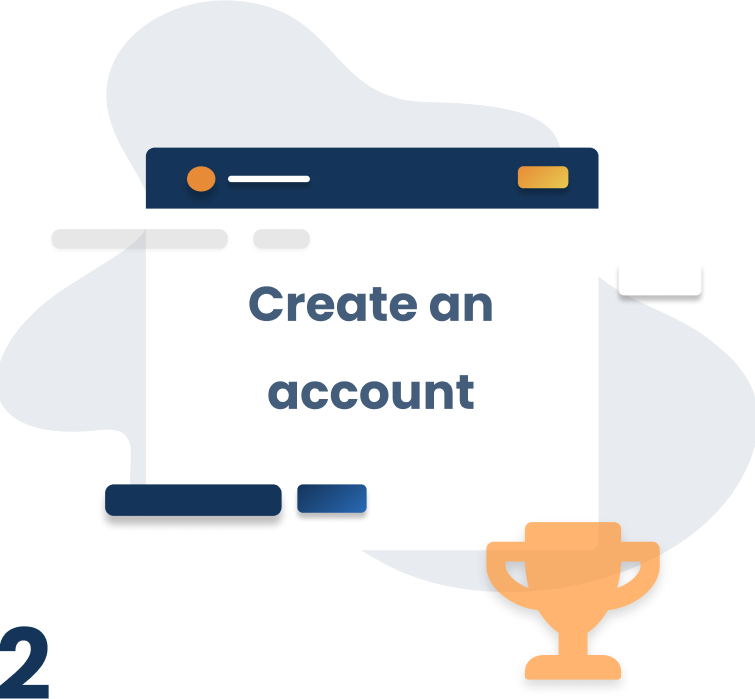
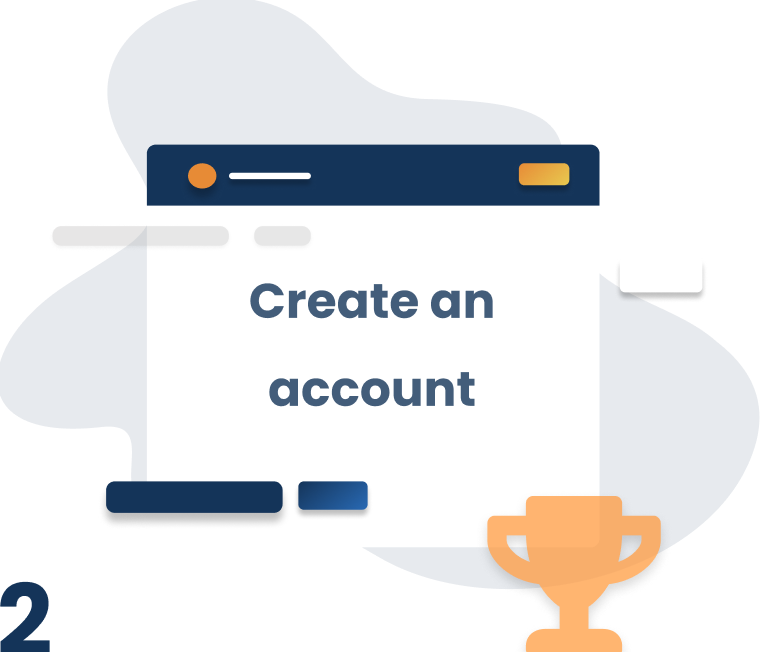
completed how it works bug fix

diff --git a/app/assets/stylesheets/pages/_how_it_works.scss b/app/assets/stylesheets/pages/_how_it_works.scss
@@ -1,10 +1,10 @@
 @media screen and (min-width: 642px) {
   .how-works-container{
     display: flex;
-    margin: 24px;
     justify-content: center;
     align-items: center;
     height: 80vh;
+    margin-top: 40px;
   }
 
   .how-it-works-column {
@@ -17,6 +17,10 @@
     margin: 0 10px;
     color: $main-color;
 
+    .apply-png, .create-account-png {
+      margin-top: 20px;
+    }
+
     h2 {
       margin-top: 32px;
       width: 60%;
@@ -26,9 +30,10 @@
       width: 40vh;
     }
     p {
-      margin-bottom: 32px;
+      margin-top: 50px;
       width: 80%;
       font-size: 1.2em;
+      font-weight: 500;
     }
   }
 }
